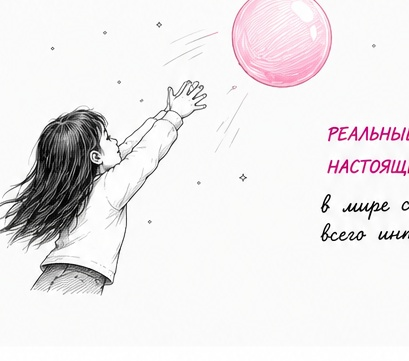
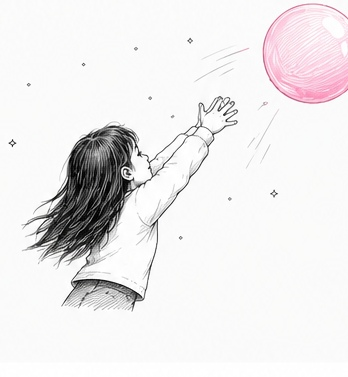
Add files via upload

diff --git a/index.html b/index.html
@@ -1,16 +1,236 @@
-<!doctype html><html lang="ru"><head><meta charset="utf-8"><meta name="viewport" content="width=device-width,initial-scale=1"><title>Потребительские исследования FMCG в реальной среде | Lanny Group</title><meta name="description" content="Количественные и качественные исследования FMCG в Москве: тестирование продукта в реальной среде, офлайн-опросы, фокус-группы, упаковка, дизайн, видео-опросы, сравнение с конкурентами. Собственная база кофеен Lanny Group."><link rel="preconnect" href="https://fonts.googleapis.com"><link rel="preconnect" href="https://fonts.gstatic.com" crossorigin><link href="https://fonts.googleapis.com/css2?family=Manrope:wght@400;500;600;700;800&display=swap" rel="stylesheet"><link rel="stylesheet" href="styles.css"></head><body>
-<header class="header"><div class="container header__in"><a href="https://lanny.group/" class="logo" aria-label="Lanny Group"><img src="assets/lanny-mark.jpg" alt="Lanny Group"></a><button class="menu" data-menu aria-expanded="false"><span></span><span></span></button><nav class="nav" data-nav><a href="#advantages">Почему мы</a><a href="#environment">Реальная среда</a><a href="#expertise">Экспертиза</a><a href="#audiences">ЦА</a><a href="#methods">Методы</a><a href="#formats">Форматы</a><a class="nav__cta" href="#form">Обсудить исследование</a></nav></div></header>
+<!doctype html>
+<html lang="ru">
+<head>
+  <meta charset="utf-8">
+  <meta name="viewport" content="width=device-width, initial-scale=1">
+  <title>Потребительские исследования FMCG в реальной среде | Lanny Group</title>
+  <meta name="description" content="Количественные и качественные исследования FMCG в Москве: офлайн-опросы, дегустации, фокус-группы, упаковка и дизайн, видео-опросы. Собственная база кофеен Lanny Group.">
+  <link rel="preconnect" href="https://fonts.googleapis.com">
+  <link rel="preconnect" href="https://fonts.gstatic.com" crossorigin>
+  <link href="https://fonts.googleapis.com/css2?family=Manrope:wght@400;500;600;700;800&display=swap" rel="stylesheet">
+  <link rel="stylesheet" href="styles.css">
+</head>
+<body>
+<header class="header">
+  <div class="container header__inner">
+    <a class="logo" href="https://lanny.group/" aria-label="Lanny Group">
+      <img src="assets/lanny-mark.jpg" alt="Lanny Group">
+    </a>
+    <button class="menu" data-menu aria-expanded="false"><span></span><span></span></button>
+    <nav class="nav" data-nav>
+      <a href="#advantages">Почему мы</a>
+      <a href="#environment">Реальная среда</a>
+      <a href="#expertise">Экспертиза</a>
+      <a href="#audiences">ЦА</a>
+      <a href="#methods">Методы</a>
+      <a href="#formats">Форматы</a>
+      <a class="nav__cta" href="#form">Обсудить исследование</a>
+    </nav>
+  </div>
+</header>
+
 <main>
-<section class="hero"><div class="container hero__grid"><div class="hero__copy"><div class="eyebrow">ПОТРЕБИТЕЛЬСКИЕ ИССЛЕДОВАНИЯ FMCG</div><h1>Каждый человек видит продукт <span>по‑своему</span></h1><div class="child-voice">«Хочу!»</div><p class="lead">Мы тестируем продукты в реальной среде — среди людей, которые уже живут, работают, тренируются, учатся и принимают решения о покупке. <strong>К каждому — свой подход.</strong></p><div class="hero__buttons"><a class="btn btn--pink" href="#form">Рассчитать исследование</a><a class="btn btn--line" href="#methods">Выбрать метод</a></div></div><div class="hero__visual"><img src="assets/hero-child.jpg" alt="Ребенок тянется к большому розовому шару"><div class="hero__quote"><b>РЕАЛЬНЫЕ ЛЮДИ — РЕАЛЬНЫЙ ВЫБОР</b><span>«В мире столько всего интересного!»</span></div></div></div>
-<div class="container usp-grid" id="advantages"><article><span class="icon">☕</span><h3>Реальная среда</h3><p>Кофе, перекус, дорога, встреча, тренировка. Реальный выбор — реальные эмоции.</p></article><article><span class="icon">♨</span><h3>Можно приготовить продукт</h3><p>Если продукт требует готовки — приготовим его по сценарию, выдержим температуру, время и подачу.</p></article><article><span class="icon">◎</span><h3>Своя база кофеен Москвы</h3><p>Посещаемость каждой точки — <strong>от 50 до 150 человек в день</strong>. Это быстрый доступ к живой аудитории.</p></article><article><span class="icon">▥</span><h3>Количественные и качественные</h3><p>Офлайн-опросы, дегустации, фокус-группы, интервью и видео-комментарии.</p></article><article><span class="icon">↗</span><h3>Выгодно регулярно</h3><p>При серийных исследованиях ниже стоимость каждого следующего теста и быстрее запуск.</p></article></div></section>
-<section class="section" id="audiences"><div class="container"><div class="section__title"><div class="eyebrow">ТЕСТИРУЕМ ДЛЯ ВАШЕЙ АУДИТОРИИ</div><h2>Уже знаем, где искать <span>нужных людей</span></h2></div><div class="audience-grid"><article><div class="round">🏋</div><h3>ЗОЖ & FITNESS</h3><p>Осознанные потребители: состав, польза, калорийность, баланс вкуса и функциональность.</p></article><article><div class="round">●</div><h3>СПОРТСМЕНЫ</h3><p>Регулярно тренируются и высоко оценивают функциональность продукта.</p></article><article><div class="round">🎒</div><h3>ДЕТИ ШКОЛЬНОГО ВОЗРАСТА</h3><p>Влияют на выбор и частоту покупки. Важно услышать именно их язык и мотивацию.</p></article><article><div class="round">♡</div><h3>РОДИТЕЛИ 30–50</h3><p>Выбирают для себя и семьи, оценивают рациональность, пользу, вкус и эмоции.</p></article><article><div class="round">✦</div><h3>МОЛОДЕЖЬ</h3><p>Следит за трендами и форматами, быстро реагирует на новинки, внешний вид и коммуникацию.</p></article><article><div class="round">⌁</div><h3>ПРЕДПРИНИМАТЕЛИ</h3><p>Люди в тренде, постоянно работающие и часто в стрессе. Быстро считывают новизну и часто имеют особое мнение о продукте.</p></article></div></div></section>
-<section class="section section--soft" id="expertise"><div class="container expertise"><div><div class="eyebrow">ПРОДУКТОВАЯ ЭКСПЕРТИЗА</div><h2>Сильны в рынке <span>FMCG</span></h2><p class="big-copy">Особенно — продукты питания: <strong>снеки, кондитерские изделия, напитки, молочные продукты, мясная гастрономия</strong> и другие категории.</p><p>Мы смотрим на результаты глазами <strong>потребителя, технолога и маркетолога</strong>. Поэтому можем оценивать не только продукт, но и упаковку, дизайн, claims, позиционирование и продвижение.</p></div><div class="expert-cards"><article><b>ПРОДУКТ</b><span>вкус • аромат • текстура • хруст • сладость • послевкусие</span></article><article><b>УПАКОВКА И ДИЗАЙН</b><span>первичный выбор • заметность • понятность • привлекательность • A/B</span></article><article><b>МАРКЕТИНГ</b><span>позиционирование • claims • коммуникация • мотиваторы выбора • promotion</span></article></div></div></section>
-<section class="section" id="methods"><div class="container"><div class="section__title"><div class="eyebrow">МЕТОДЫ ИССЛЕДОВАНИЙ</div><h2>Метод подбираем под <span>бизнес‑вопрос</span></h2></div><div class="methods-grid"><article><span>01</span><h3>Количественное офлайн-исследование</h3><p>Когда нужно понять масштаб предпочтения, сравнить несколько образцов или сегментов и получить измеримые показатели на реальной аудитории.</p></article><article><span>02</span><h3>Фокус-группа</h3><p><strong>Сильный инструмент, когда важно понять «почему».</strong> Помогает раскрыть язык потребителя, глубинные мотивы, барьеры, отношение к новой идее, упаковке, дизайну или коммуникации до дорогого запуска.</p></article><article><span>03</span><h3>Дегустация / blind test</h3><p>Для выбора рецептуры, сравнения с конкурентом, оценки вкуса, текстуры, аромата и других сенсорных параметров.</p></article><article><span>04</span><h3>Упаковка и дизайн</h3><p>Можно показать несколько вариантов и измерить первый выбор, заметность, понятность, доверие, привлекательность и соответствие ожиданиям от продукта.</p></article><article><span>05</span><h3>Видео с опросами</h3><p>Дополнительно запишем ответы потребителей, чтобы ваша команда могла сама услышать интонации, аргументы, сомнения и настоящие эмоции.</p></article><article><span>06</span><h3>Интервью</h3><p>Для сложных категорий и задач, где важна последовательная история выбора, сценарии потребления и персональные мотивы.</p></article></div></div></section>
-<section class="section process"><div class="container"><div class="section__title center"><div class="eyebrow">КАК ПРОХОДИТ ИССЛЕДОВАНИЕ</div><h2>От вопроса до <span>конкретного решения</span></h2></div><div class="steps"><article><b>1</b><h3>Задача</h3><p>Формируем бизнес-вопрос, ЦА и KPI.</p></article><article><b>2</b><h3>Методика</h3><p>Сценарий, анкета, критерии и порядок теста.</p></article><article><b>3</b><h3>Локация</h3><p>Выбираем кофейню из собственной базы под аудиторию.</p></article><article><b>4</b><h3>Поле</h3><p>Дегустации, опросы, A/B, интервью и фокус-группы.</p></article><article><b>5</b><h3>Аналитика</h3><p>Данные, сегменты, мотивы и ключевые инсайты.</p></article><article><b>6</b><h3>Видео</h3><p>По запросу — живые ответы потребителей.</p></article><article><b>7</b><h3>Решение</h3><p>Рекомендации и ТЗ на доработку.</p></article></div></div></section>
-<section class="section section--dark" id="environment"><div class="container result-grid"><div class="result-copy"><div class="eyebrow">ПОМОГАЕМ ИНТЕГРИРОВАТЬ ИНСАЙТЫ</div><h2>Исследование — это старт <span>роста продукта</span></h2><div class="result-points"><article><b>INSIGHT</b><p>Понимаем, что движет выбором.</p></article><article><b>ТЗ НА ДОРАБОТКУ</b><p>Формируем конкретные изменения продукта или дизайна.</p></article><article><b>ИНТЕГРАЦИЯ</b><p>Помогаем внедрить выводы в продукт, упаковку и продвижение.</p></article><article><b>RETEST</b><p>Проверяем новую версию и подтверждаем рост показателей.</p></article></div></div><div class="yoga-visual"><img src="assets/yoga-girl.jpg" alt="Спортивная девушка занимается йогой, рядом функциональный напиток и протеиновый батончик"></div></div></section>
-<section class="section cafe"><div class="container cafe__grid"><div><div class="eyebrow">СВОЯ БАЗА КОФЕЕН МОСКВЫ</div><h2>Ключевое преимущество для <span>быстрого живого поля</span></h2></div><div class="cafe-list"><p>✓ Посещаемость <strong>50–150 человек в день</strong> на точку</p><p>✓ Разные районы Москвы и типы аудитории</p><p>✓ Возможность приготовить продукт непосредственно перед тестом</p><p>✓ Естественная среда потребления</p><p>✓ Быстрый набор нужной ЦА</p><p>✓ Экономия времени и бюджета на организацию отдельного холл-теста</p><p>✓ Возможность повторять исследования по единой методике</p></div></div></section>
-<section class="section section--soft" id="formats"><div class="container"><div class="section__title"><div class="eyebrow">ФОРМАТЫ РАБОТЫ</div><h2>От одного теста до <span>регулярного Consumer Lab</span></h2></div><div class="prices"><article><div class="rocket">↗</div><h3>Разовое исследование</h3><p>Для конкретной продуктовой задачи и быстрого решения.</p><strong>от 190 000 ₽</strong></article><article><div class="rocket">▦</div><h3>Серия исследований</h3><p>Несколько тестов в течение 3–6 месяцев для разработки или перезапуска линейки.</p><strong>от 3 исследований</strong></article><article class="featured"><div class="rocket">♕</div><h3>Lanny Consumer Lab</h3><p>Регулярная программа на 3, 6 или 12 месяцев. Ниже стоимость каждого теста, быстрее запуск и накопление сопоставимых данных.</p><strong>индивидуальные условия</strong></article></div></div></section>
-<section class="section examples"><div class="container"><div class="section__title"><div class="eyebrow">ПРИМЕРЫ ЗАДАЧ</div><h2>С чем к нам <span>приходят</span></h2></div><div class="example-tags"><span>Какой вкус запускать?</span><span>Почему конкурент выигрывает?</span><span>Какой дизайн выбирают первым?</span><span>Стоит ли менять рецептуру?</span><span>Как потребитель считывает claims?</span><span>Понятно ли позиционирование?</span><span>Что изменить до запуска?</span><span>Какая концепция сильнее?</span><span>Почему продукт не покупают повторно?</span></div></div></section>
-<section class="cta" id="form"><div class="container cta__grid"><div><div class="eyebrow">ОБСУДИМ ИССЛЕДОВАНИЕ</div><h2>Расскажите задачу — предложим <span>механику, ЦА, сроки и бюджет</span></h2><p>Можно начать с одного теста и затем перейти к регулярной программе.</p><a href="mailto:rnd@lanny.group">rnd@lanny.group</a><a href="tel:+79263728663">+7 (926) 372-86-63</a></div><form class="form" data-form><div class="form-row"><input name="name" required placeholder="Ваше имя*"><input name="company" placeholder="Компания"></div><div class="form-row"><input name="email" type="email" required placeholder="E-mail*"><input name="phone" type="tel" required placeholder="Телефон*"></div><select name="type"><option>Количественное исследование</option><option>Фокус-группа</option><option>Тестирование продукта</option><option>Упаковка / дизайн</option><option>Видео-опросы</option><option>Регулярный Consumer Lab</option></select><textarea name="message" rows="4" placeholder="Опишите задачу"></textarea><label class="agree"><input type="checkbox" required> <span>Согласен(на) на обработку персональных данных</span></label><button class="btn btn--dark" type="submit">Отправить заявку</button><p data-status class="status"></p></form></div></section>
+<section class="hero">
+  <div class="container hero__grid">
+    <div class="hero__copy">
+      <div class="eyebrow">ПОТРЕБИТЕЛЬСКИЕ ИССЛЕДОВАНИЯ FMCG</div>
+      <h1>Каждый человек видит продукт <span>по‑своему</span></h1>
+      <div class="child-voice">«Хочу!»</div>
+      <p class="hero__lead">
+        Мы тестируем продукты в реальной среде — среди людей, которые уже живут, работают,
+        тренируются, учатся и принимают решения о покупке.
+        <strong>К каждому — свой подход.</strong>
+      </p>
+      <div class="hero__actions">
+        <a class="btn btn--pink" href="#form">Рассчитать исследование</a>
+        <a class="btn btn--light" href="#methods">Выбрать метод</a>
+      </div>
+    </div>
+
+    <div class="hero__visual">
+      <img src="assets/hero-child.jpg" alt="Ребенок тянется к большому розовому шару">
+      <div class="hero__note">
+        <b>РЕАЛЬНЫЕ ЛЮДИ — РЕАЛЬНЫЙ ВЫБОР</b>
+        <span>«В мире столько всего интересного!»</span>
+      </div>
+    </div>
+  </div>
+
+  <div class="container benefit-strip" id="advantages">
+    <article><div class="ico">☕</div><h3>Реальная среда</h3><p>Кофе, перекус, дорога, встреча, тренировка. Реальный контекст — реальные эмоции.</p></article>
+    <article><div class="ico">♨</div><h3>Можно приготовить продукт</h3><p>Если продукт требует готовки — приготовим по сценарию и выдержим температуру, время и подачу.</p></article>
+    <article><div class="ico">◎</div><h3>Своя база кофеен Москвы</h3><p>Посещаемость каждой точки — <strong>50–150 человек в день</strong>. Быстрый доступ к живой аудитории.</p></article>
+    <article><div class="ico">▥</div><h3>Количественные и качественные</h3><p>Офлайн-опросы, дегустации, фокус-группы, интервью и видео-комментарии.</p></article>
+    <article><div class="ico">↗</div><h3>Выгодно регулярно</h3><p>При серии исследований ниже стоимость каждого следующего теста и быстрее запуск.</p></article>
+  </div>
+</section>
+
+<section class="section" id="audiences">
+  <div class="container">
+    <div class="section-title">
+      <div class="eyebrow">ТЕСТИРУЕМ ДЛЯ ВАШЕЙ АУДИТОРИИ</div>
+      <h2>Уже знаем, где искать <span>нужных людей</span></h2>
+    </div>
+    <div class="audience-grid">
+      <article><div class="audience-icon">🏋</div><h3>ЗОЖ & FITNESS</h3><p>Состав, польза, калорийность, функциональность и баланс вкуса.</p></article>
+      <article><div class="audience-icon">●</div><h3>СПОРТСМЕНЫ</h3><p>Регулярные тренировки и высокие требования к функциональности продукта.</p></article>
+      <article><div class="audience-icon">🎒</div><h3>ДЕТИ ШКОЛЬНОГО ВОЗРАСТА</h3><p>Влияют на выбор и частоту покупки. Важно услышать именно их мотивацию.</p></article>
+      <article><div class="audience-icon">♡</div><h3>РОДИТЕЛИ 30–50</h3><p>Выбирают для себя и семьи, оценивают пользу, рациональность, вкус и эмоции.</p></article>
+      <article><div class="audience-icon">✦</div><h3>МОЛОДЕЖЬ</h3><p>Следит за трендами, быстро реагирует на новинки, внешний вид и коммуникацию.</p></article>
+      <article><div class="audience-icon">⌁</div><h3>ПРЕДПРИНИМАТЕЛИ</h3><p>Люди в тренде, постоянно работающие и часто в стрессе. У них часто особое мнение на продукты.</p></article>
+    </div>
+  </div>
+</section>
+
+<section class="section section--soft" id="expertise">
+  <div class="container expertise-grid">
+    <div class="expertise-copy">
+      <div class="eyebrow">ПРОДУКТОВАЯ ЭКСПЕРТИЗА</div>
+      <h2>Сильны в рынке <span>FMCG</span></h2>
+      <p class="big-copy">Особенно — продукты питания: <strong>снеки, кондитерские изделия, напитки, молочные продукты, мясная гастрономия</strong> и другие категории.</p>
+      <p>Смотрим на результат глазами <strong>потребителя, технолога и маркетолога</strong>. Поэтому оцениваем продукт, упаковку, дизайн, claims, позиционирование и продвижение.</p>
+    </div>
+    <div class="expertise-cards">
+      <article><b>ПРОДУКТ</b><span>вкус • аромат • текстура • хруст • сладость • послевкусие</span></article>
+      <article><b>УПАКОВКА И ДИЗАЙН</b><span>первичный выбор • заметность • понятность • привлекательность • A/B</span></article>
+      <article><b>МАРКЕТИНГ</b><span>позиционирование • claims • коммуникация • мотиваторы выбора • promotion</span></article>
+    </div>
+  </div>
+</section>
+
+<section class="section" id="methods">
+  <div class="container">
+    <div class="section-title">
+      <div class="eyebrow">МЕТОДЫ ИССЛЕДОВАНИЙ</div>
+      <h2>Метод подбираем под <span>бизнес‑вопрос</span></h2>
+    </div>
+    <div class="methods-grid">
+      <article><span>01</span><h3>Количественное офлайн-исследование</h3><p>Когда нужно сравнить несколько образцов или сегментов и получить измеримые показатели на реальной аудитории.</p></article>
+      <article><span>02</span><h3>Фокус-группа</h3><p><strong>Когда важно понять «почему».</strong> Раскрывает язык потребителя, глубинные мотивы, барьеры, отношение к идее, упаковке, дизайну и коммуникации.</p></article>
+      <article><span>03</span><h3>Дегустация / blind test</h3><p>Для выбора рецептуры, сравнения с конкурентом и оценки сенсорных параметров.</p></article>
+      <article><span>04</span><h3>Упаковка и дизайн</h3><p>Первичный выбор, заметность, понятность, доверие, привлекательность и соответствие ожиданиям.</p></article>
+      <article><span>05</span><h3>Видео с опросами</h3><p>Ваша команда может сама услышать интонации, аргументы, сомнения и настоящие эмоции потребителей.</p></article>
+      <article><span>06</span><h3>Интервью</h3><p>Для задач, где важна последовательная история выбора, сценарии потребления и персональные мотивы.</p></article>
+    </div>
+  </div>
+</section>
+
+<section class="section" id="process">
+  <div class="container">
+    <div class="section-title section-title--center">
+      <div class="eyebrow">КАК ПРОХОДИТ ИССЛЕДОВАНИЕ</div>
+      <h2>От вопроса до <span>конкретного решения</span></h2>
+    </div>
+    <div class="steps">
+      <article><b>1</b><h3>Задача</h3><p>Бизнес-вопрос, ЦА и KPI.</p></article>
+      <article><b>2</b><h3>Методика</h3><p>Сценарий, анкета, критерии и порядок теста.</p></article>
+      <article><b>3</b><h3>Локация</h3><p>Выбираем кофейню из собственной базы.</p></article>
+      <article><b>4</b><h3>Поле</h3><p>Дегустации, опросы, A/B, интервью и фокус-группы.</p></article>
+      <article><b>5</b><h3>Аналитика</h3><p>Данные, сегменты, мотивы и инсайты.</p></article>
+      <article><b>6</b><h3>Видео</h3><p>По запросу — живые ответы потребителей.</p></article>
+      <article><b>7</b><h3>Решение</h3><p>Рекомендации и ТЗ на доработку.</p></article>
+    </div>
+  </div>
+</section>
+
+<section class="section section--dark" id="environment">
+  <div class="container growth-grid">
+    <div class="growth-card">
+      <div class="eyebrow">ПОМОГАЕМ ИНТЕГРИРОВАТЬ ИНСАЙТЫ</div>
+      <h2>Исследование — это старт <span>роста продукта</span></h2>
+      <div class="growth-points">
+        <article><b>INSIGHT</b><p>Понимаем, что движет выбором.</p></article>
+        <article><b>ТЗ НА ДОРАБОТКУ</b><p>Формируем конкретные изменения продукта или дизайна.</p></article>
+        <article><b>ИНТЕГРАЦИЯ</b><p>Помогаем внедрить выводы в продукт, упаковку и продвижение.</p></article>
+        <article><b>RETEST</b><p>Проверяем новую версию и подтверждаем рост показателей.</p></article>
+      </div>
+    </div>
+    <div class="growth-visual">
+      <img src="assets/yoga-girl.jpg" alt="Спортивная девушка на йоге, рядом изотоник и протеиновый батончик">
+    </div>
+  </div>
+</section>
+
+<section class="section cafe">
+  <div class="container cafe-grid">
+    <div>
+      <div class="eyebrow">СВОЯ БАЗА КОФЕЕН МОСКВЫ</div>
+      <h2>Ключевое преимущество для <span>быстрого живого поля</span></h2>
+    </div>
+    <div class="cafe-list">
+      <p>✓ Посещаемость <strong>50–150 человек в день</strong> на точку</p>
+      <p>✓ Разные районы Москвы и типы аудитории</p>
+      <p>✓ Возможность приготовить продукт непосредственно перед тестом</p>
+      <p>✓ Естественная среда потребления</p>
+      <p>✓ Быстрый набор нужной ЦА</p>
+      <p>✓ Экономия времени и бюджета на организацию отдельного холл-теста</p>
+      <p>✓ Возможность повторять исследования по единой методике</p>
+    </div>
+  </div>
+</section>
+
+<section class="section section--soft" id="formats">
+  <div class="container">
+    <div class="section-title">
+      <div class="eyebrow">ФОРМАТЫ РАБОТЫ</div>
+      <h2>От одного теста до <span>регулярного Consumer Lab</span></h2>
+    </div>
+    <div class="pricing-grid">
+      <article><div class="price-icon">↗</div><h3>Разовое исследование</h3><p>Для конкретной продуктовой задачи и быстрого решения.</p><strong>от 190 000 ₽</strong></article>
+      <article><div class="price-icon">▦</div><h3>Серия исследований</h3><p>Несколько тестов в течение 3–6 месяцев для разработки или перезапуска линейки.</p><strong>от 3 исследований</strong></article>
+      <article class="pricing-featured"><div class="price-icon">♕</div><h3>Lanny Consumer Lab</h3><p>Регулярная программа на 3, 6 или 12 месяцев. Ниже стоимость каждого теста, быстрее запуск и накопление данных.</p><strong>индивидуальные условия</strong></article>
+    </div>
+  </div>
+</section>
+
+<section class="section">
+  <div class="container">
+    <div class="section-title">
+      <div class="eyebrow">ПРИМЕРЫ ЗАДАЧ</div>
+      <h2>С чем к нам <span>приходят</span></h2>
+    </div>
+    <div class="task-tags">
+      <span>Какой вкус запускать?</span><span>Почему конкурент выигрывает?</span><span>Какой дизайн выбирают первым?</span>
+      <span>Стоит ли менять рецептуру?</span><span>Как потребитель считывает claims?</span><span>Понятно ли позиционирование?</span>
+      <span>Что изменить до запуска?</span><span>Какая концепция сильнее?</span><span>Почему продукт не покупают повторно?</span>
+    </div>
+  </div>
+</section>
+
+<section class="cta" id="form">
+  <div class="container cta-grid">
+    <div>
+      <div class="eyebrow">ОБСУДИМ ИССЛЕДОВАНИЕ</div>
+      <h2>Расскажите задачу — предложим <span>механику, ЦА, сроки и бюджет</span></h2>
+      <p>Можно начать с одного теста и затем перейти к регулярной программе.</p>
+      <a href="mailto:rnd@lanny.group">rnd@lanny.group</a>
+      <a href="tel:+79263728663">+7 (926) 372-86-63</a>
+    </div>
+    <form class="form" data-form>
+      <div class="form-row"><input name="name" required placeholder="Ваше имя*"><input name="company" placeholder="Компания"></div>
+      <div class="form-row"><input name="email" type="email" required placeholder="E-mail*"><input name="phone" type="tel" required placeholder="Телефон*"></div>
+      <select name="type">
+        <option>Количественное исследование</option><option>Фокус-группа</option><option>Тестирование продукта</option>
+        <option>Упаковка / дизайн</option><option>Видео-опросы</option><option>Регулярный Consumer Lab</option>
+      </select>
+      <textarea name="message" rows="4" placeholder="Опишите задачу"></textarea>
+      <label class="agree"><input type="checkbox" required><span>Согласен(на) на обработку персональных данных</span></label>
+      <button class="btn btn--dark" type="submit">Отправить заявку</button>
+      <p class="status" data-status></p>
+    </form>
+  </div>
+</section>
 </main>
-<footer class="footer"><div class="container footer__in"><div class="footer__brand"><img src="assets/lanny-mark.jpg" alt=""><b>ТЕСТИРУЕМ ПРОДУКТЫ<br>УЛУЧШАЕМ РЕЗУЛЬТАТЫ<br>РАСТИМ БИЗНЕС</b></div><a href="mailto:rnd@lanny.group">rnd@lanny.group</a><a href="https://lanny.group/">lanny.group</a><strong>LANNY GROUP</strong></div></footer><script src="script.js"></script></body></html>
+
+<footer class="footer">
+  <div class="container footer-inner">
+    <div class="footer-brand"><img src="assets/lanny-mark.jpg" alt=""><b>ТЕСТИРУЕМ ПРОДУКТЫ<br>УЛУЧШАЕМ РЕЗУЛЬТАТЫ<br>РАСТИМ БИЗНЕС</b></div>
+    <a href="mailto:rnd@lanny.group">rnd@lanny.group</a>
+    <a href="https://lanny.group/">lanny.group</a>
+    <strong>LANNY GROUP</strong>
+  </div>
+</footer>
+
+<script src="script.js"></script>
+</body>
+</html>

diff --git a/styles.css b/styles.css
@@ -1,1 +1,42 @@
-:root{--pink:#bc2f8e;--pink2:#e889bc;--ink:#151517;--muted:#727278;--line:#e3e3e7;--soft:#f7f7f9;--max:min(1180px,calc(100% - 40px))}*{box-sizing:border-box}html{scroll-behavior:smooth}body{margin:0;font-family:Manrope,Arial,sans-serif;color:var(--ink);background:#fff}a{text-decoration:none;color:inherit}img{max-width:100%;display:block}.container{width:var(--max);margin:auto}.header{position:sticky;top:0;z-index:50;background:rgba(255,255,255,.94);backdrop-filter:blur(14px);border-bottom:1px solid #eee}.header__in{height:74px;display:flex;align-items:center;justify-content:space-between}.logo img{width:54px;height:54px;object-fit:cover;border-radius:50%}.nav{display:flex;gap:22px;align-items:center;font-size:12px;font-weight:800}.nav a:hover{color:var(--pink)}.nav__cta{background:var(--ink);color:#fff!important;padding:12px 17px;border-radius:999px}.menu{display:none}.hero{padding:68px 0 0;background:linear-gradient(180deg,#fff 0,#fbfbfc 100%)}.hero__grid{display:grid;grid-template-columns:1fr .85fr;gap:44px;align-items:center}.eyebrow{font-size:11px;font-weight:800;letter-spacing:.13em;color:var(--pink);margin-bottom:15px}h1,h2,h3,p{margin-top:0}h1{font-size:clamp(48px,5.7vw,74px);line-height:.98;letter-spacing:-.052em;margin-bottom:16px}h1 span,h2 span{color:var(--pink)}.child-voice{font-size:32px;color:var(--pink);font-style:italic;margin:0 0 20px 6px}.lead{font-size:17px;line-height:1.65;color:#4c4c52;max-width:680px}.hero__buttons{display:flex;gap:10px;margin-top:26px}.btn{min-height:50px;padding:0 22px;border-radius:999px;display:inline-flex;align-items:center;justify-content:center;border:1px solid transparent;font-weight:800;font-size:13px;cursor:pointer}.btn--pink{background:var(--pink);color:#fff}.btn--line{border-color:#bbb}.btn--dark{background:#111;color:#fff;width:100%;border-radius:12px}.hero__visual{position:relative;min-height:360px}.hero__visual img{position:absolute;inset:0 0 0 auto;width:82%;height:100%;object-fit:cover;object-position:center;border-radius:22px}.hero__quote{position:absolute;right:0;bottom:18px;background:rgba(255,255,255,.88);padding:15px 17px;border-radius:14px;box-shadow:0 12px 35px rgba(0,0,0,.08);max-width:245px}.hero__quote b,.hero__quote span{display:block}.hero__quote b{color:var(--pink);font-size:12px}.hero__quote span{font-size:14px;margin-top:6px;font-style:italic}.usp-grid{margin-top:48px;background:#fff;border:1px solid #eee;border-radius:22px;display:grid;grid-template-columns:repeat(5,1fr);padding:25px 20px}.usp-grid article{padding:0 18px;border-right:1px solid #eee}.usp-grid article:last-child{border-right:0}.icon{font-size:24px;color:var(--pink)}.usp-grid h3{font-size:13px;color:var(--pink);margin:12px 0 8px}.usp-grid p{font-size:11px;line-height:1.55;color:#555;margin:0}.section{padding:90px 0}.section--soft{background:var(--soft)}.section--dark{background:#151517;color:#fff}.section__title{max-width:790px;margin-bottom:42px}.section__title.center{text-align:center;margin-left:auto;margin-right:auto}.section__title h2,.expertise h2,.cafe h2,.cta h2{font-size:clamp(35px,4.1vw,56px);line-height:1.05;letter-spacing:-.04em;margin-bottom:15px}.audience-grid{display:grid;grid-template-columns:repeat(6,1fr);gap:14px}.audience-grid article{text-align:center}.round{width:92px;height:92px;border-radius:50%;background:radial-gradient(circle,#fff 45%,#fae6f2);margin:0 auto 18px;display:grid;place-items:center;font-size:30px}.audience-grid h3{font-size:11px;color:var(--pink);min-height:28px}.audience-grid p{font-size:10px;line-height:1.55;color:#555}.expertise{display:grid;grid-template-columns:1.05fr .95fr;gap:60px;align-items:start}.big-copy{font-size:18px;line-height:1.65}.expertise>div:first-child>p:last-child{font-size:14px;line-height:1.75;color:#606066}.expert-cards{display:grid;gap:12px}.expert-cards article{background:#fff;border:1px solid var(--line);border-radius:18px;padding:22px}.expert-cards b{display:block;color:var(--pink);font-size:11px;margin-bottom:10px}.expert-cards span{font-size:13px;line-height:1.6}.methods-grid{display:grid;grid-template-columns:repeat(3,1fr);gap:16px}.methods-grid article{padding:28px;border:1px solid var(--line);border-radius:20px;background:#fff}.methods-grid span{color:var(--pink);font-weight:800;font-size:11px}.methods-grid h3{font-size:20px;margin:35px 0 12px}.methods-grid p{font-size:12px;line-height:1.65;color:#666;margin:0}.process{padding-top:78px}.steps{display:grid;grid-template-columns:repeat(7,1fr);gap:8px}.steps article{padding:20px 12px;border-top:1px solid var(--line);text-align:center}.steps b{width:35px;height:35px;border-radius:50%;background:#fae5f2;color:var(--pink);display:grid;place-items:center;margin:0 auto 16px}.steps h3{font-size:12px}.steps p{font-size:9.5px;line-height:1.5;color:#666}.result-grid{display:grid;grid-template-columns:1.18fr .82fr;gap:25px;align-items:stretch}.result-copy{background:#202023;border-radius:25px;padding:36px}.result-copy h2{font-size:44px;line-height:1.05}.result-points{display:grid;grid-template-columns:repeat(4,1fr);gap:12px;margin-top:34px}.result-points b{font-size:11px;color:var(--pink2)}.result-points p{font-size:10px;line-height:1.55;color:#bbb;margin-top:10px}.yoga-visual{background:#fff;border-radius:25px;overflow:hidden;display:flex;align-items:center;justify-content:center}.yoga-visual img{width:100%;height:100%;object-fit:cover}.cafe__grid{display:grid;grid-template-columns:.9fr 1.1fr;gap:60px}.cafe-list{font-size:14px;line-height:1.6}.cafe-list p{padding:12px 0;border-bottom:1px solid var(--line);margin:0}.prices{display:grid;grid-template-columns:repeat(3,1fr);gap:18px}.prices article{padding:32px;border:1px solid var(--line);border-radius:22px;background:#fff}.prices .featured{border-color:var(--pink);box-shadow:0 18px 55px rgba(188,47,142,.12)}.rocket{font-size:26px;color:var(--pink)}.prices h3{font-size:20px;margin:24px 0 12px}.prices p{font-size:12px;line-height:1.6;color:#666}.prices strong{display:block;color:var(--pink);margin-top:22px}.example-tags{display:flex;flex-wrap:wrap;gap:10px}.example-tags span{padding:12px 15px;border-radius:999px;border:1px solid var(--line);font-size:12px;background:#fff}.cta{padding:90px 0;background:linear-gradient(135deg,#f4f4f7,#fff,#faedf6)}.cta__grid{display:grid;grid-template-columns:.9fr 1.1fr;gap:65px}.cta__grid>div>a{display:block;font-weight:800;margin:7px 0}.form{background:var(--pink);padding:28px;border-radius:24px}.form-row{display:grid;grid-template-columns:1fr 1fr;gap:10px}.form input,.form select,.form textarea{width:100%;border:0;border-radius:10px;padding:14px;margin-bottom:10px;background:#fff}.agree{display:flex;align-items:center;gap:8px;color:#fff;font-size:10px;margin:3px 0 12px}.agree input{width:auto;margin:0}.status{font-size:11px;color:#fff;margin:10px 0 0}.footer{background:#fff;padding:28px 0;border-top:1px solid #eee}.footer__in{display:grid;grid-template-columns:1.3fr 1fr 1fr auto;align-items:center;gap:25px}.footer__brand{display:flex;align-items:center;gap:15px}.footer__brand img{width:50px;height:50px;border-radius:50%;object-fit:cover}.footer__brand b{font-size:9px;letter-spacing:.12em;line-height:1.4}.footer a{font-size:12px}.footer strong{font-size:17px}@media(max-width:1050px){.nav a:not(.nav__cta){display:none}.usp-grid{grid-template-columns:repeat(2,1fr)}.usp-grid article{border-right:0;border-bottom:1px solid #eee;padding:16px}.audience-grid{grid-template-columns:repeat(3,1fr)}.steps{grid-template-columns:repeat(4,1fr)}.result-grid,.expertise,.cafe__grid,.cta__grid{grid-template-columns:1fr}.result-points{grid-template-columns:repeat(2,1fr)}}@media(max-width:720px){:root{--max:min(100% - 28px,1180px)}.header__in{height:66px}.logo img{width:46px;height:46px}.menu{display:block;border:0;background:none;width:42px;height:42px;position:relative}.menu span{position:absolute;left:10px;width:22px;height:2px;background:#111}.menu span:first-child{top:16px}.menu span:last-child{top:24px}.nav{display:none;position:fixed;top:72px;left:14px;right:14px;background:#fff;padding:18px;border-radius:18px;box-shadow:0 20px 60px rgba(0,0,0,.14);flex-direction:column;align-items:stretch}.nav.is-open{display:flex}.nav a:not(.nav__cta){display:block;padding:8px}.nav__cta{text-align:center}.hero{padding-top:45px}.hero__grid{grid-template-columns:1fr}.hero__visual{min-height:300px}.hero__visual img{width:100%}.hero__quote{right:10px}.usp-grid{grid-template-columns:1fr}.audience-grid{grid-template-columns:repeat(2,1fr)}.methods-grid,.prices{grid-template-columns:1fr}.steps{grid-template-columns:repeat(2,1fr)}.result-points{grid-template-columns:1fr}.form-row{grid-template-columns:1fr}.footer__in{grid-template-columns:1fr}.section{padding:68px 0}}@media(max-width:450px){h1{font-size:42px}.hero__buttons{display:grid}.btn{width:100%}.audience-grid{grid-template-columns:1fr}.round{width:82px;height:82px}.steps{grid-template-columns:1fr}.result-copy{padding:26px}.result-copy h2{font-size:35px}}
+:root{
+ --pink:#bf318e;--pink-light:#f8e7f2;--ink:#151517;--muted:#717179;--line:#e3e3e8;
+ --soft:#f6f6f8;--white:#fff;--max:min(1180px,calc(100% - 40px));--radius:22px;
+}
+*{box-sizing:border-box}html{scroll-behavior:smooth}body{margin:0;font-family:Manrope,Arial,sans-serif;color:var(--ink);background:#fff;-webkit-font-smoothing:antialiased}
+a{color:inherit;text-decoration:none}img{display:block;max-width:100%}button,input,select,textarea{font:inherit}.container{width:var(--max);margin:auto}
+.header{position:sticky;top:0;z-index:50;background:rgba(255,255,255,.96);backdrop-filter:blur(12px);border-bottom:1px solid #eee}
+.header__inner{height:72px;display:flex;align-items:center;justify-content:space-between}.logo img{width:54px;height:54px;object-fit:cover;border-radius:50%}
+.nav{display:flex;align-items:center;gap:22px;font-size:12px;font-weight:800}.nav a:hover{color:var(--pink)}.nav__cta{padding:12px 18px;border-radius:999px;background:var(--ink);color:#fff!important}.menu{display:none}
+.hero{padding:72px 0 0;background:linear-gradient(180deg,#fff 0,#fbfbfc 100%)}.hero__grid{display:grid;grid-template-columns:1.1fr .9fr;gap:58px;align-items:center}
+.eyebrow{font-size:11px;font-weight:800;letter-spacing:.14em;color:var(--pink);margin-bottom:15px}
+h1,h2,h3,p{margin-top:0}h1{font-size:clamp(48px,5.7vw,72px);line-height:.98;letter-spacing:-.052em;margin-bottom:14px}h1 span,h2 span{color:var(--pink)}
+.child-voice{font-size:31px;color:var(--pink);font-style:italic;margin:0 0 22px 8px}.hero__lead{font-size:17px;line-height:1.65;color:#4f4f56;max-width:680px}
+.hero__actions{display:flex;gap:10px;margin-top:26px}.btn{min-height:50px;padding:0 22px;border-radius:999px;display:inline-flex;align-items:center;justify-content:center;border:1px solid transparent;font-size:13px;font-weight:800;cursor:pointer}
+.btn--pink{background:var(--pink);color:#fff}.btn--light{border-color:#bdbdc3;background:#fff}.btn--dark{background:#111;color:#fff;width:100%;border-radius:12px}
+.hero__visual{position:relative;height:350px;display:flex;align-items:center;justify-content:center}
+.hero__visual img{width:78%;height:280px;object-fit:cover;object-position:center;border-radius:20px;background:#fff}
+.hero__note{position:absolute;right:0;bottom:20px;width:230px;background:#fff;padding:15px 17px;border-radius:14px;box-shadow:0 12px 35px rgba(0,0,0,.08)}
+.hero__note b,.hero__note span{display:block}.hero__note b{font-size:11px;color:var(--pink)}.hero__note span{font-size:13px;font-style:italic;margin-top:6px}
+.benefit-strip{margin-top:48px;padding:24px 20px;border:1px solid #eee;border-radius:22px;background:#fff;display:grid;grid-template-columns:repeat(5,1fr)}
+.benefit-strip article{padding:0 18px;border-right:1px solid #eee}.benefit-strip article:last-child{border-right:0}.ico{font-size:23px;color:var(--pink)}
+.benefit-strip h3{font-size:13px;color:var(--pink);margin:12px 0 8px}.benefit-strip p{font-size:11px;line-height:1.55;color:#555;margin:0}
+.section{padding:88px 0}.section--soft{background:var(--soft)}.section--dark{background:#151517;color:#fff}.section-title{max-width:790px;margin-bottom:42px}.section-title--center{text-align:center;margin-left:auto;margin-right:auto}
+.section-title h2,.expertise-copy h2,.cafe h2,.cta h2{font-size:clamp(36px,4.1vw,55px);line-height:1.05;letter-spacing:-.04em;margin-bottom:15px}
+.audience-grid{display:grid;grid-template-columns:repeat(6,1fr);gap:14px}.audience-grid article{text-align:center}
+.audience-icon{width:88px;height:88px;border-radius:50%;display:grid;place-items:center;margin:0 auto 18px;background:radial-gradient(circle,#fff 45%,#fae8f3);font-size:27px}
+.audience-grid h3{font-size:11px;color:var(--pink);min-height:28px}.audience-grid p{font-size:10px;line-height:1.55;color:#555}
+.expertise-grid{display:grid;grid-template-columns:1.05fr .95fr;gap:58px}.big-copy{font-size:18px;line-height:1.65}.expertise-copy>p:last-child{font-size:14px;line-height:1.75;color:#606066}
+.expertise-cards{display:grid;gap:12px}.expertise-cards article{padding:22px;border:1px solid var(--line);border-radius:18px;background:#fff}.expertise-cards b{display:block;color:var(--pink);font-size:11px;margin-bottom:10px}.expertise-cards span{font-size:13px;line-height:1.6}
+.methods-grid{display:grid;grid-template-columns:repeat(3,1fr);gap:16px}.methods-grid article{padding:28px;border:1px solid var(--line);border-radius:20px;background:#fff}.methods-grid span{color:var(--pink);font-weight:800;font-size:11px}.methods-grid h3{font-size:20px;margin:34px 0 12px}.methods-grid p{font-size:12px;line-height:1.65;color:#666;margin:0}
+.steps{display:grid;grid-template-columns:repeat(7,1fr);gap:8px}.steps article{text-align:center;padding:20px 12px;border-top:1px solid var(--line)}.steps b{width:35px;height:35px;border-radius:50%;background:var(--pink-light);color:var(--pink);display:grid;place-items:center;margin:0 auto 16px}.steps h3{font-size:12px}.steps p{font-size:9.5px;line-height:1.5;color:#666}
+.growth-grid{display:grid;grid-template-columns:1.25fr .75fr;gap:28px;align-items:stretch}.growth-card{background:#202023;border-radius:24px;padding:38px}.growth-card h2{font-size:43px;line-height:1.06}.growth-points{display:grid;grid-template-columns:repeat(4,1fr);gap:12px;margin-top:32px}.growth-points b{font-size:10px;color:#ef8bc0}.growth-points p{font-size:10px;line-height:1.55;color:#bbb;margin-top:10px}
+.growth-visual{background:#fff;border-radius:24px;display:flex;align-items:center;justify-content:center;padding:28px;overflow:hidden}.growth-visual img{width:92%;height:auto;max-height:300px;object-fit:contain}
+.cafe-grid{display:grid;grid-template-columns:.9fr 1.1fr;gap:58px}.cafe-list p{margin:0;padding:12px 0;border-bottom:1px solid var(--line);font-size:14px;line-height:1.55}
+.pricing-grid{display:grid;grid-template-columns:repeat(3,1fr);gap:18px}.pricing-grid article{padding:32px;border:1px solid var(--line);border-radius:22px;background:#fff}.pricing-featured{border-color:var(--pink)!important}.price-icon{font-size:26px;color:var(--pink)}.pricing-grid h3{font-size:20px;margin:24px 0 12px}.pricing-grid p{font-size:12px;line-height:1.6;color:#666}.pricing-grid strong{display:block;color:var(--pink);margin-top:22px}
+.task-tags{display:flex;flex-wrap:wrap;gap:10px}.task-tags span{padding:12px 15px;border:1px solid var(--line);border-radius:999px;font-size:12px;background:#fff}
+.cta{padding:88px 0;background:linear-gradient(135deg,#f4f4f7,#fff,#faedf6)}.cta-grid{display:grid;grid-template-columns:.9fr 1.1fr;gap:64px}.cta-grid>div>a{display:block;font-weight:800;margin:7px 0}
+.form{background:var(--pink);padding:28px;border-radius:24px}.form-row{display:grid;grid-template-columns:1fr 1fr;gap:10px}.form input,.form select,.form textarea{width:100%;border:0;border-radius:10px;padding:14px;margin-bottom:10px;background:#fff}.agree{display:flex;gap:8px;align-items:center;color:#fff;font-size:10px;margin:4px 0 12px}.agree input{width:auto;margin:0}.status{font-size:11px;color:#fff}
+.footer{padding:28px 0;border-top:1px solid #eee}.footer-inner{display:grid;grid-template-columns:1.3fr 1fr 1fr auto;align-items:center;gap:24px}.footer-brand{display:flex;align-items:center;gap:15px}.footer-brand img{width:48px;height:48px;border-radius:50%;object-fit:cover}.footer-brand b{font-size:9px;letter-spacing:.12em;line-height:1.4}.footer a{font-size:12px}.footer strong{font-size:17px}
+@media(max-width:1050px){.nav a:not(.nav__cta){display:none}.benefit-strip{grid-template-columns:repeat(2,1fr)}.benefit-strip article{border-right:0;border-bottom:1px solid #eee;padding:16px}.audience-grid{grid-template-columns:repeat(3,1fr)}.steps{grid-template-columns:repeat(4,1fr)}.expertise-grid,.growth-grid,.cafe-grid,.cta-grid{grid-template-columns:1fr}.growth-points{grid-template-columns:repeat(2,1fr)}.growth-visual{max-width:560px}}
+@media(max-width:720px){:root{--max:min(100% - 28px,1180px)}.header__inner{height:66px}.logo img{width:46px;height:46px}.menu{display:block;border:0;background:none;width:42px;height:42px;position:relative}.menu span{position:absolute;left:10px;width:22px;height:2px;background:#111}.menu span:first-child{top:16px}.menu span:last-child{top:24px}.nav{display:none;position:fixed;top:72px;left:14px;right:14px;background:#fff;padding:18px;border-radius:18px;box-shadow:0 20px 60px rgba(0,0,0,.14);flex-direction:column;align-items:stretch}.nav.is-open{display:flex}.nav a:not(.nav__cta){display:block;padding:8px}.nav__cta{text-align:center}.hero{padding-top:45px}.hero__grid{grid-template-columns:1fr;gap:20px}.hero__visual{height:300px}.hero__visual img{width:100%;height:250px}.hero__note{right:8px}.benefit-strip{grid-template-columns:1fr}.audience-grid{grid-template-columns:repeat(2,1fr)}.methods-grid,.pricing-grid{grid-template-columns:1fr}.steps{grid-template-columns:repeat(2,1fr)}.growth-points{grid-template-columns:1fr}.form-row{grid-template-columns:1fr}.footer-inner{grid-template-columns:1fr}.section{padding:68px 0}}
+@media(max-width:450px){h1{font-size:42px}.hero__actions{display:grid}.btn{width:100%}.audience-grid{grid-template-columns:1fr}.steps{grid-template-columns:1fr}.growth-card{padding:26px}.growth-card h2{font-size:34px}}

diff --git a/script.js b/script.js
@@ -1,1 +1,7 @@
-(()=>{const b=document.querySelector('[data-menu]'),n=document.querySelector('[data-nav]');if(b&&n){b.addEventListener('click',()=>{const o=b.getAttribute('aria-expanded')==='true';b.setAttribute('aria-expanded',String(!o));n.classList.toggle('is-open',!o)});n.querySelectorAll('a').forEach(a=>a.addEventListener('click',()=>n.classList.remove('is-open')))}const f=document.querySelector('[data-form]'),s=document.querySelector('[data-status]');if(f){f.addEventListener('submit',e=>{e.preventDefault();if(!f.checkValidity()){f.reportValidity();return}const d=Object.fromEntries(new FormData(f).entries()),sub=encodeURIComponent(`Исследование Lanny — ${d.company||d.name}`),body=encodeURIComponent(`Имя: ${d.name}\nКомпания: ${d.company||'—'}\nE-mail: ${d.email}\nТелефон: ${d.phone}\nФормат: ${d.type}\n\nЗадача:\n${d.message||'—'}`);s.textContent='Открываем письмо с заполненной заявкой';location.href=`mailto:rnd@lanny.group?subject=${sub}&body=${body}`})}})();
+(() => {
+ const b=document.querySelector('[data-menu]'), n=document.querySelector('[data-nav]');
+ if(b&&n){b.addEventListener('click',()=>{const o=b.getAttribute('aria-expanded')==='true';b.setAttribute('aria-expanded',String(!o));n.classList.toggle('is-open',!o)});n.querySelectorAll('a').forEach(a=>a.addEventListener('click',()=>n.classList.remove('is-open')))}
+ const f=document.querySelector('[data-form]'), s=document.querySelector('[data-status]');
+ if(f){f.addEventListener('submit',e=>{e.preventDefault();if(!f.checkValidity()){f.reportValidity();return}
+ const d=Object.fromEntries(new FormData(f).entries());const sub=encodeURIComponent(`Исследование Lanny — ${d.company||d.name}`);const body=encodeURIComponent(`Имя: ${d.name}\nКомпания: ${d.company||'—'}\nE-mail: ${d.email}\nТелефон: ${d.phone}\nФормат: ${d.type}\n\nЗадача:\n${d.message||'—'}`);if(s)s.textContent='Открываем письмо с заполненной заявкой';location.href=`mailto:rnd@lanny.group?subject=${sub}&body=${body}`})}
+})();

diff --git a/README.md b/README.md
@@ -1,17 +1,18 @@
-# Lanny Consumer Research — финальная HTML-страница
+# Lanny Consumer Research — fixed layout
 
-Адаптивная статическая страница под desktop/mobile.
+Исправленная версия:
+- каждая иллюстрация лежит отдельным файлом в /assets;
+- hero-иллюстрация уменьшена и больше не перетягивает внимание с оффера;
+- yoga-иллюстрация отображается через object-fit: contain, без растягивания;
+- картинки не встроены в общий коллаж;
+- адаптивные размеры desktop/mobile;
+- пути к картинкам относительные, поэтому работают при локальном открытии и на GitHub Pages/сайте.
 
-## Файлы
+Файлы:
 - index.html
 - styles.css
 - script.js
 - assets/lanny-mark.jpg
 - assets/hero-child.jpg
 - assets/yoga-girl.jpg
-
-## Форма
-Сейчас использует mailto:rnd@lanny.group. Перед production можно заменить обработчик в script.js на API/CRM endpoint.
-
-## Рекомендуемый URL
-/potrebitelskie-issledovaniya/
+- assets/cafe-detail.jpg
